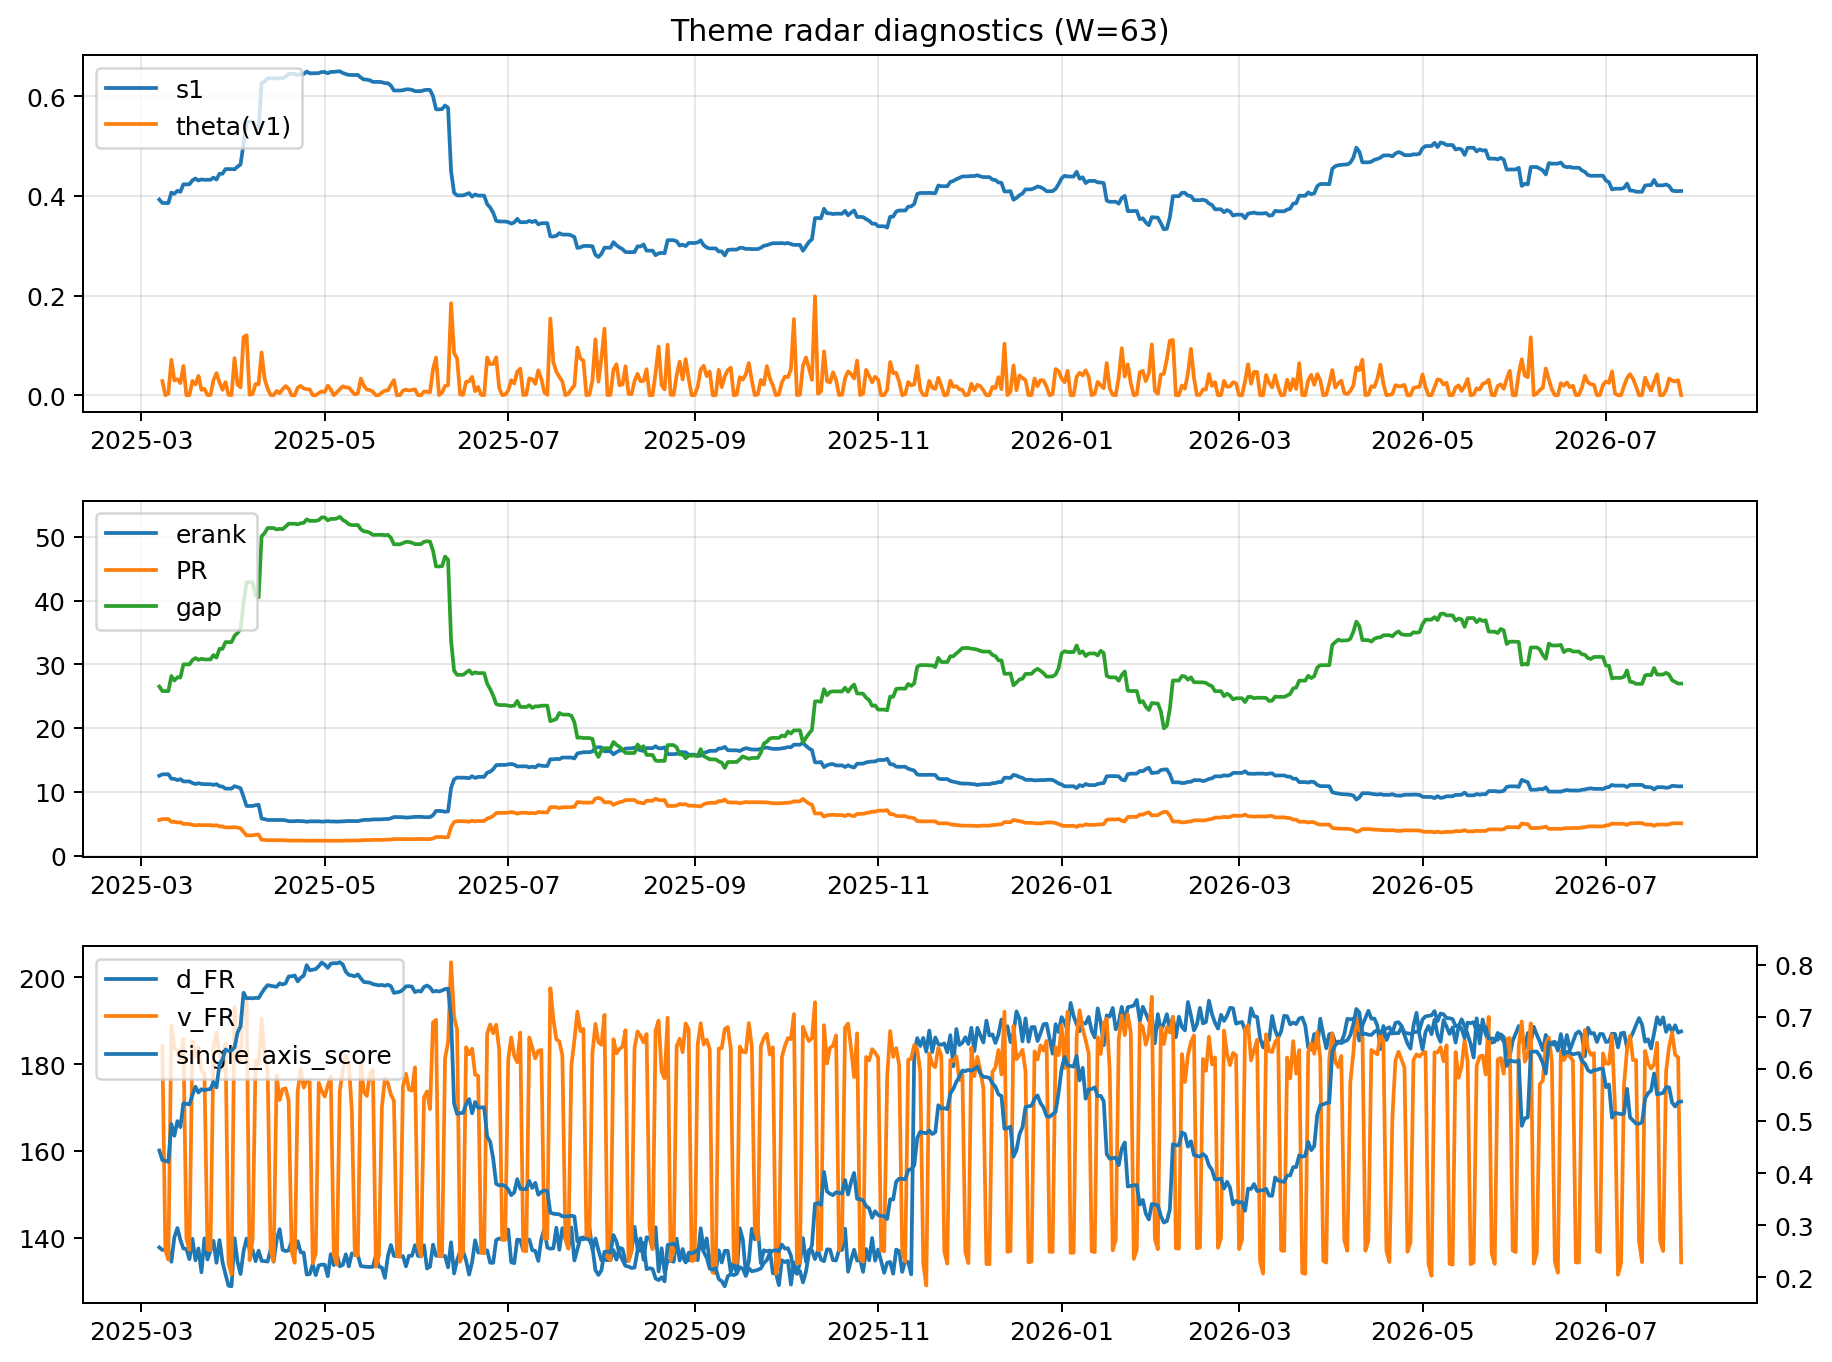
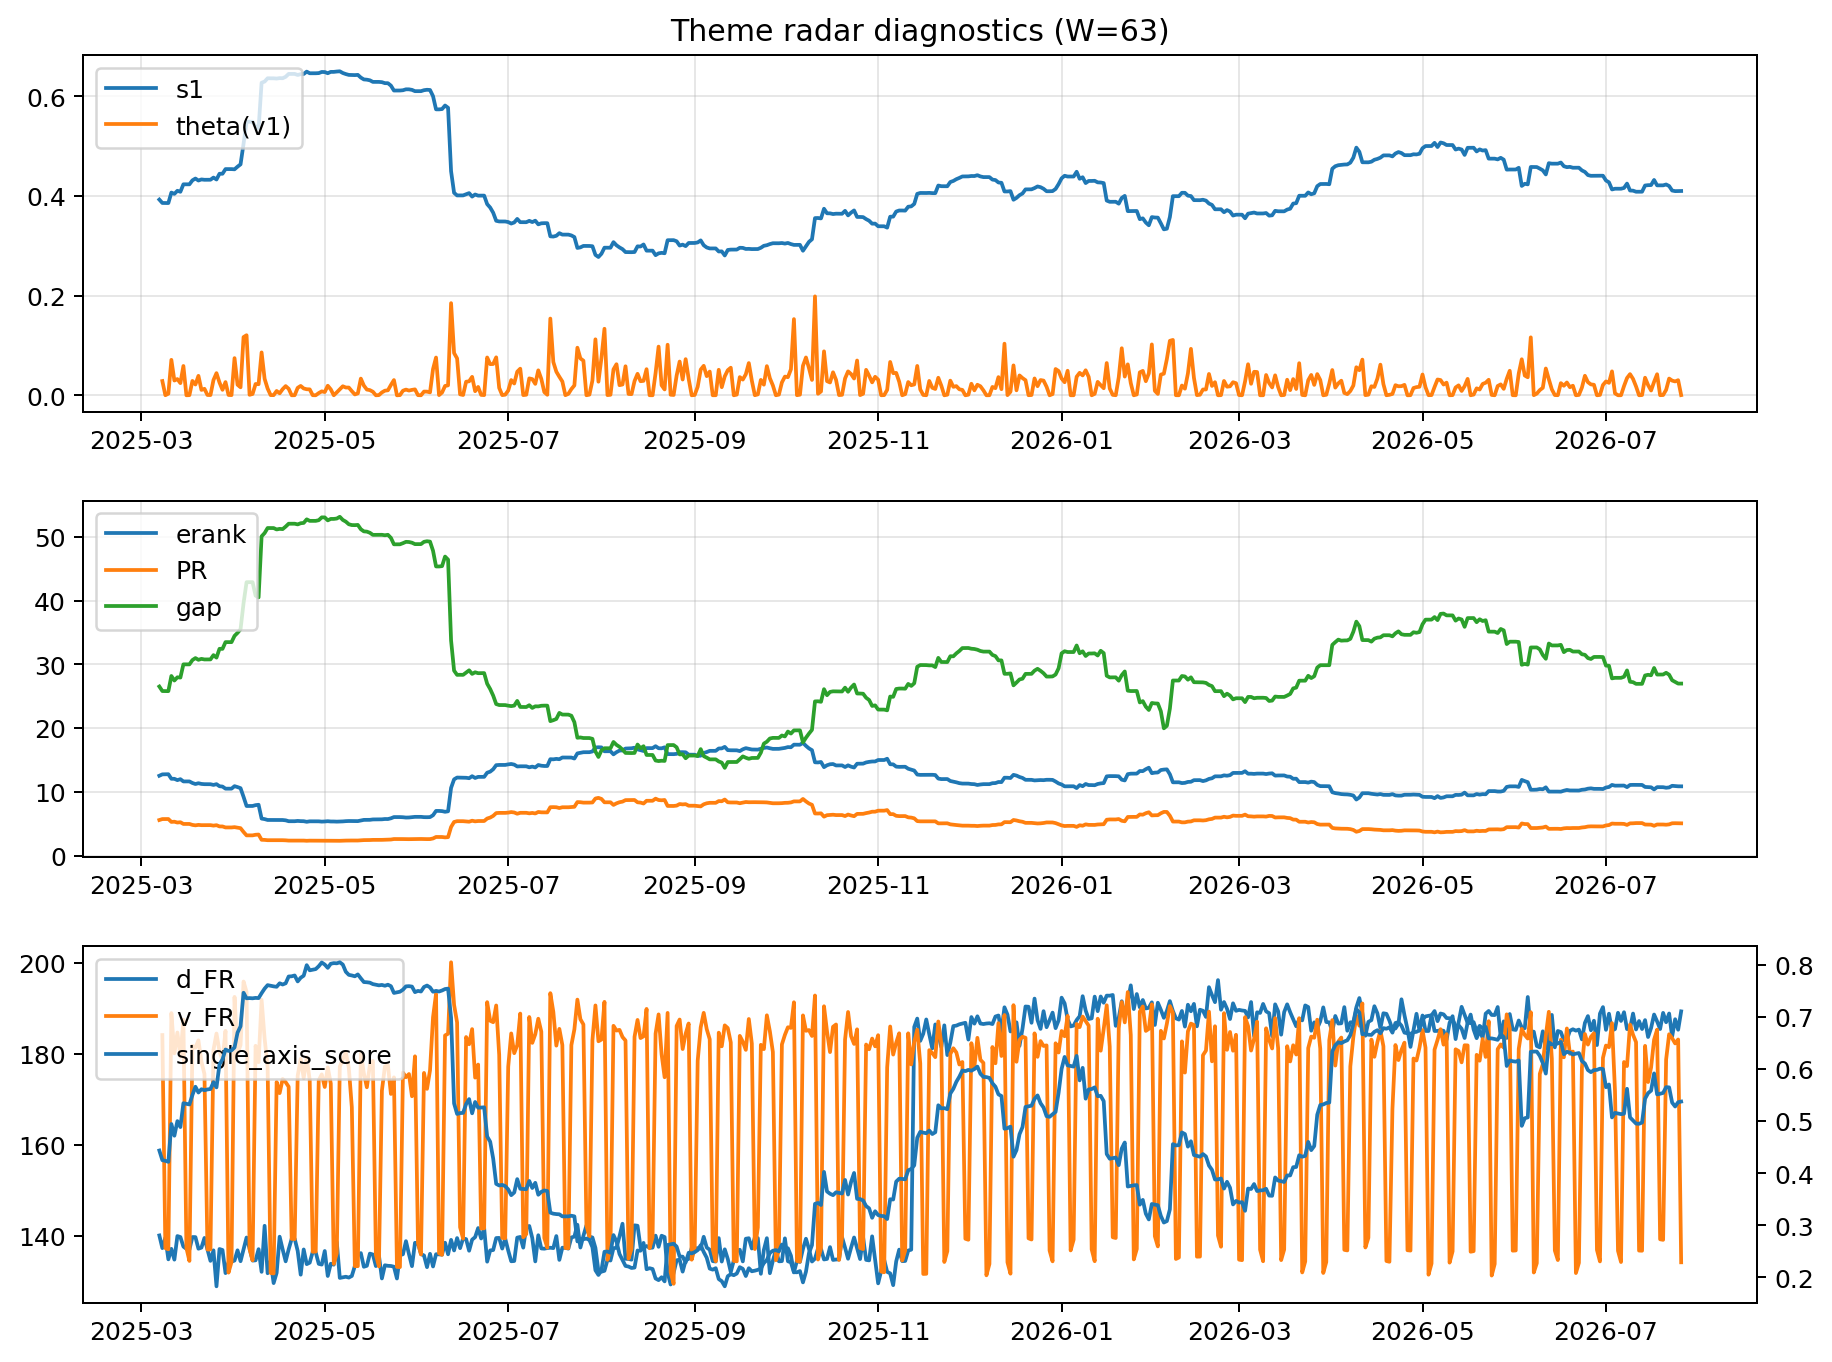
log: 2026-07-26 | sha256:0c65878a4ffe7030b98b58ba1fe398b13be8e44cdeab16d37346c6a158d76f77

diff --git a/logs/2026-07-26.md b/logs/2026-07-26.md
@@ -3,43 +3,43 @@
 ![diagnostic W63](../assets/diagnostic/2026-07-26_W63.png)
 
 ## Leaders (v1) — W=63
-- **Nuclear_Uranium** (0.0865366851297533)
-- Semis (0.0681856474759613)
-- Quantum (0.0554724485862059)
+- **Nuclear_Uranium** (0.086536682422353)
+- Semis (0.0681856440030416)
+- Quantum (0.055472447565724)
 
 ## Challengers — W=63
-**v2:** Semis (0.0863383644482521), MegaCap_AI (0.084583407624182), Rates (0.0652404111787998)
-**v3:** Software_Cloud (0.096815645871108), Grid_Power (0.0651969581484158), Crypto (0.0624366576181617)
+**v2:** Semis (0.0863383687745493), MegaCap_AI (0.0845833986381719), Rates (0.0652404491903173)
+**v3:** Software_Cloud (0.0968156847628935), Grid_Power (0.0651969657339807), Crypto (0.0624366808317012)
 
 ## Migration (20D slope) — W=63
 **Top risers:**
-- axis_Sector_RealEstate: 0.0003050162699544
-- axis_Sector_Utilities: 0.0001954165003835
-- axis_Nuclear_Uranium: 0.0001921858658129
-- axis_Cyber: 0.0001860277692595
-- axis_Software_Cloud: 0.0001639032807791
-- axis_Semis: 0.0001623330616164
-- axis_Crypto: 0.000156496603528
-- axis_Quantum: 0.0001510233902026
-- axis_Sector_Health: 0.0001389135050293
-- axis_Sector_ConsStap: 0.0001240792503318
+- axis_Sector_RealEstate: 0.0003050161374572
+- axis_Sector_Utilities: 0.0001954164554716
+- axis_Nuclear_Uranium: 0.00019218581331
+- axis_Cyber: 0.0001860275481483
+- axis_Software_Cloud: 0.0001639029833464
+- axis_Semis: 0.0001623322460108
+- axis_Crypto: 0.0001564963225719
+- axis_Quantum: 0.0001510231152555
+- axis_Sector_Health: 0.0001389134443871
+- axis_Sector_ConsStap: 0.0001240791777942
 
 **Top fallers:**
-- axis_USD: -9.04301631640946e-05
-- axis_Sector_Ind: -0.0001031873397842
-- axis_MegaCap_AI: -0.0001203016178638
-- axis_Defense: -0.0001379101221583
-- axis_Sector_ConsDisc: -0.0001420590125677
-- axis_Credit: -0.0001881155748899
-- axis_Sector_Materials: -0.0002139972961529
-- axis_Commodities: -0.0002400976567941
-- axis_DataCenter_Infra: -0.0004609415415299
-- axis_Rates: -0.0005322554644519
+- axis_USD: -9.043012919478546e-05
+- axis_Sector_Ind: -0.0001031873801962
+- axis_MegaCap_AI: -0.0001203020825368
+- axis_Defense: -0.0001379101339349
+- axis_Sector_ConsDisc: -0.000142059105552
+- axis_Credit: -0.0001881113090252
+- axis_Sector_Materials: -0.00021399726026
+- axis_Commodities: -0.00024009793117
+- axis_DataCenter_Infra: -0.0004609415530247
+- axis_Rates: -0.0005322537647555
 
 ## Risk line (W=63)
-- s1: 0.4098263462671914
-- theta_v1: 0.0004169932954087
-- v_FR: 134.36582568123077
+- s1: 0.4098263572797757
+- theta_v1: 0.0004169932951424
+- v_FR: 134.18652534445675
 - single_axis_score: 0.5372781065088758
 
 ## Interpretation
@@ -48,7 +48,7 @@
 - Action: Tomorrow watchlist: Sector_RealEstate, Sector_Utilities, Nuclear_Uranium, Cyber, Software_Cloud + v2_top1=Semis
 - Action: Hedge note: normal correlation stability.
 
-- Percentiles (W=63 history): vfr_pct=0.07, theta_pct=0.15, s1_pct=0.50, score_pct=0.56.
+- Percentiles (W=63 history): vfr_pct=0.06, theta_pct=0.15, s1_pct=0.50, score_pct=0.56.
 
 ---
[2 lines of base64/hex data omitted]
